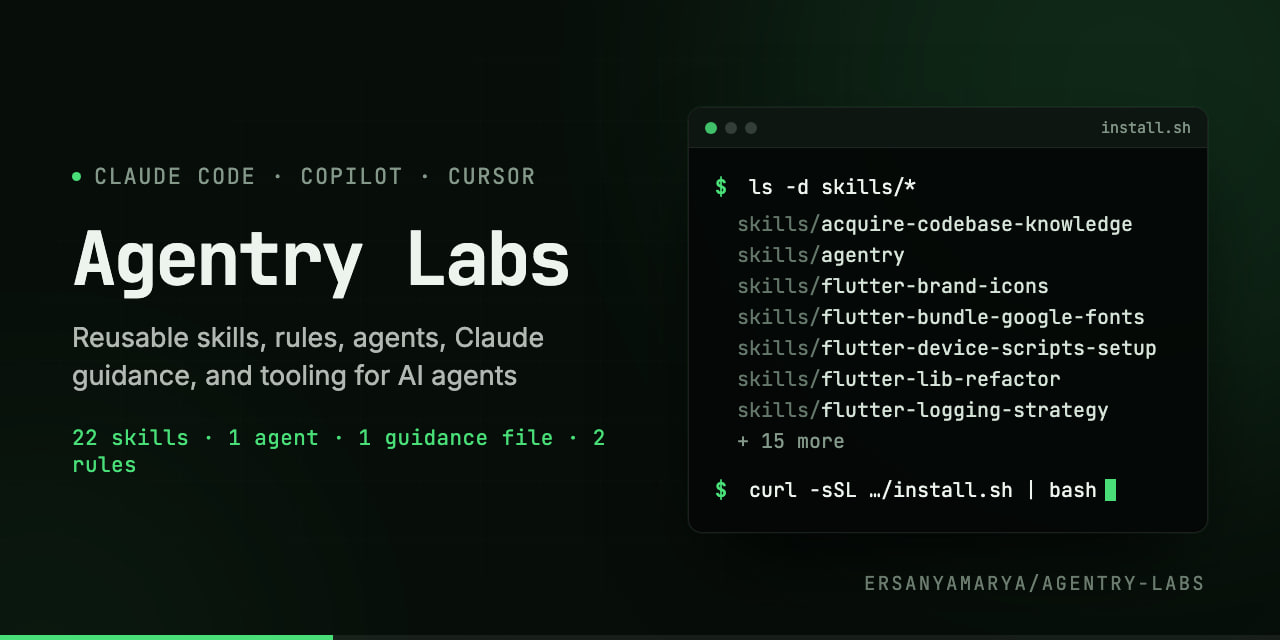
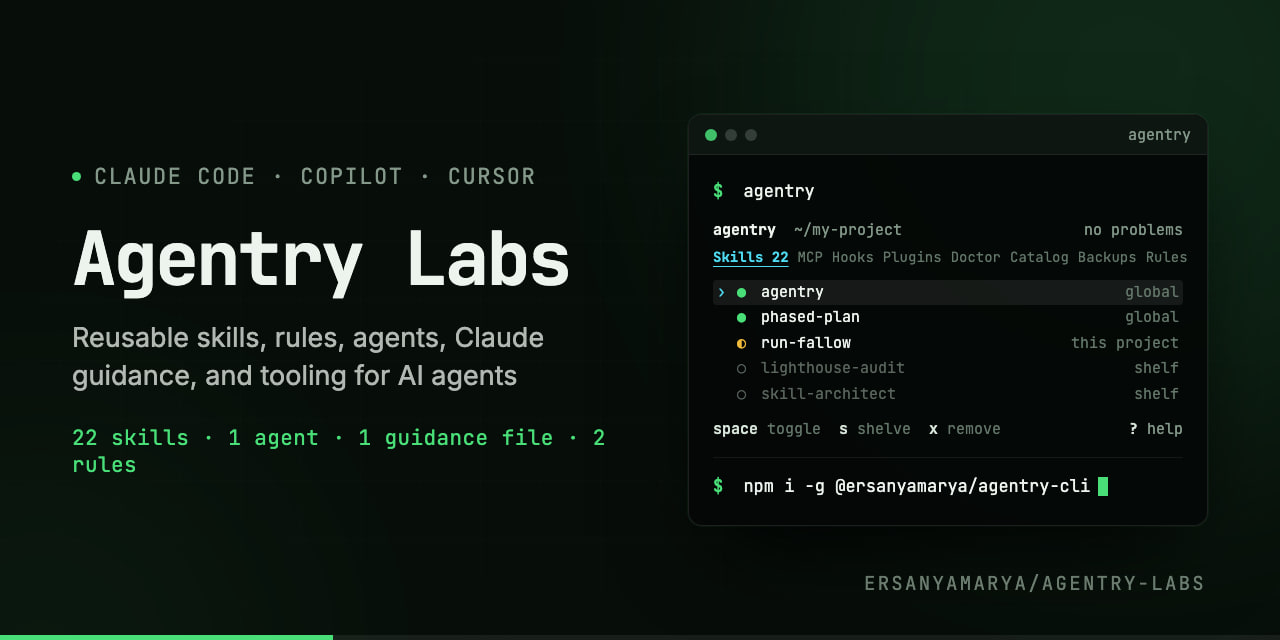
docs: show the agentry TUI on the README cover

diff --git a/scripts/image-gen-tools/generate-cover.ts b/scripts/image-gen-tools/generate-cover.ts
@@ -31,9 +31,23 @@ const counts = [plural(skills.length, 'skill'), plural(agents.length, 'agent'), 
   .filter(Boolean)
   .join(' · ');
 
-const MAX_LISTED = 7;
-const listed = skills.slice(0, MAX_LISTED).map((s) => `<li><span class="dir">skills/</span>${escapeHtml(s)}</li>`).join('');
-const more = skills.length > MAX_LISTED ? `<li class="more">+ ${skills.length - MAX_LISTED} more</li>` : '';
+// The terminal shows the `agentry` TUI (cli/): header, tabs, a few real skill names with their state mark, the row's keys.
+// Marks and scopes are illustrative; the names and the Skills count come from skills/.
+const SHOWN = ['agentry', 'phased-plan', 'run-fallow', 'lighthouse-audit', 'skill-architect'].filter((s) => skills.includes(s));
+const rowStates = [
+  ['●', 'on', 'global'],
+  ['●', 'on', 'global'],
+  ['◐', 'half', 'this project'],
+  ['○', 'off', 'shelf'],
+  ['○', 'off', 'shelf'],
+] as const;
+const tabs = ['Skills', 'MCP', 'Hooks', 'Plugins', 'Doctor', 'Catalog', 'Backups', 'Rules']
+  .map((t, i) => `<span class="${i === 0 ? 'tab on' : 'tab'}">${t}${i === 0 ? ` ${skills.length}` : ''}</span>`)
+  .join('');
+const tuiRows = SHOWN.map((name, i) => {
+  const [mark, cls, scope] = rowStates[i] ?? rowStates[0];
+  return `<li class="row ${cls}${i === 0 ? ' sel' : ''}"><span class="cur">${i === 0 ? '›' : ' '}</span><span class="mark">${mark}</span><span class="name">${escapeHtml(name)}</span><span class="scope">${scope}</span></li>`;
+}).join('');
 
 const body = `
 <div class="frame">
@@ -44,11 +58,14 @@ const body = `
     <p class="counts">${escapeHtml(counts)}</p>
   </div>
   <div class="term">
-    <div class="bar"><i></i><i></i><i></i><span>install.sh</span></div>
+    <div class="bar"><i></i><i></i><i></i><span>agentry</span></div>
     <div class="screen">
-      <p class="cmd"><b>$</b> ls -d skills/*</p>
-      <ul>${listed}${more}</ul>
-      <p class="cmd"><b>$</b> curl -sSL …/install.sh | bash<span class="cursor"></span></p>
+      <p class="cmd"><b>$</b> agentry</p>
+      <p class="head"><strong>agentry</strong>  ~/my-project<span class="r">no problems</span></p>
+      <p class="tabs">${tabs}</p>
+      <ul>${tuiRows}</ul>
+      <p class="keys"><b>space</b> toggle  <b>s</b> shelve  <b>x</b> remove<span class="r"><b>?</b> help</span></p>
+      <p class="cmd inst"><b>$</b> npm i -g @ersanyamarya/agentry-cli<span class="cursor"></span></p>
     </div>
   </div>
 </div>
@@ -68,11 +85,23 @@ const css = `
   .bar i{width:12px;height:12px;border-radius:50%;background:oklch(0.35 0.02 160)}
   .bar i:first-child{background:oklch(0.8 0.19 150 / 0.85)}
   .bar span{margin-left:auto}
-  .screen{padding:24px 26px 26px;font-size:20px;line-height:1.55;color:oklch(0.9 0.02 150)}
-  .cmd{color:oklch(0.96 0.01 150)} .cmd b{color:oklch(0.8 0.19 150);font-weight:600;margin-right:10px}
-  ul{list-style:none;margin:6px 0 18px;padding-left:22px}
-  li{white-space:nowrap} .dir{color:oklch(0.55 0.03 155)} .more{color:oklch(0.66 0.03 155)}
-  .cursor{display:inline-block;width:11px;height:22px;margin-left:8px;vertical-align:-4px;background:oklch(0.8 0.19 150)}
+  .screen{padding:22px 24px 24px;font-size:15px;line-height:1.7;color:oklch(0.9 0.02 150)}
+  .cmd{color:oklch(0.96 0.01 150);font-size:17px} .cmd b{color:oklch(0.8 0.19 150);font-weight:600;margin-right:10px}
+  .head{display:flex;margin-top:12px;color:oklch(0.66 0.03 155);white-space:pre} .head strong{color:oklch(0.96 0.01 150)}
+  .r{margin-left:auto;color:oklch(0.66 0.03 155)}
+  .tabs{display:flex;gap:9px;white-space:nowrap;color:oklch(0.55 0.03 155);font-size:14px;margin-top:2px}
+  .tab.on{color:oklch(0.82 0.12 210);font-weight:700;text-decoration:underline;text-underline-offset:4px}
+  ul{list-style:none;margin:10px 0 10px;padding:0}
+  .row{display:flex;gap:10px;white-space:pre;padding:0 4px;border-radius:4px}
+  .row .cur{width:10px;color:oklch(0.82 0.12 210)} .row .mark{width:14px}
+  .row .name{flex:1;color:oklch(0.96 0.01 150)} .row .scope{color:oklch(0.55 0.03 155)}
+  .row.on .mark{color:oklch(0.8 0.19 150)} .row.half .mark{color:oklch(0.82 0.15 85)}
+  .row.off .mark,.row.off .name{color:oklch(0.5 0.02 155)}
+  .row.sel{background:oklch(1 0 0 / 0.07)}
+  .keys{display:flex;color:oklch(0.55 0.03 155);white-space:pre;padding-bottom:14px;border-bottom:1px solid oklch(1 0 0 / 0.07)}
+  .keys b{color:oklch(0.9 0.02 150);font-weight:600}
+  .inst{margin-top:14px}
+  .cursor{display:inline-block;width:10px;height:19px;margin-left:8px;vertical-align:-4px;background:oklch(0.8 0.19 150)}
 `;
 
 await renderCards([{ slug: 'cover', html: cardDocument(body, css) }], OUT_DIR, { scale: 1, format: 'jpeg' });
